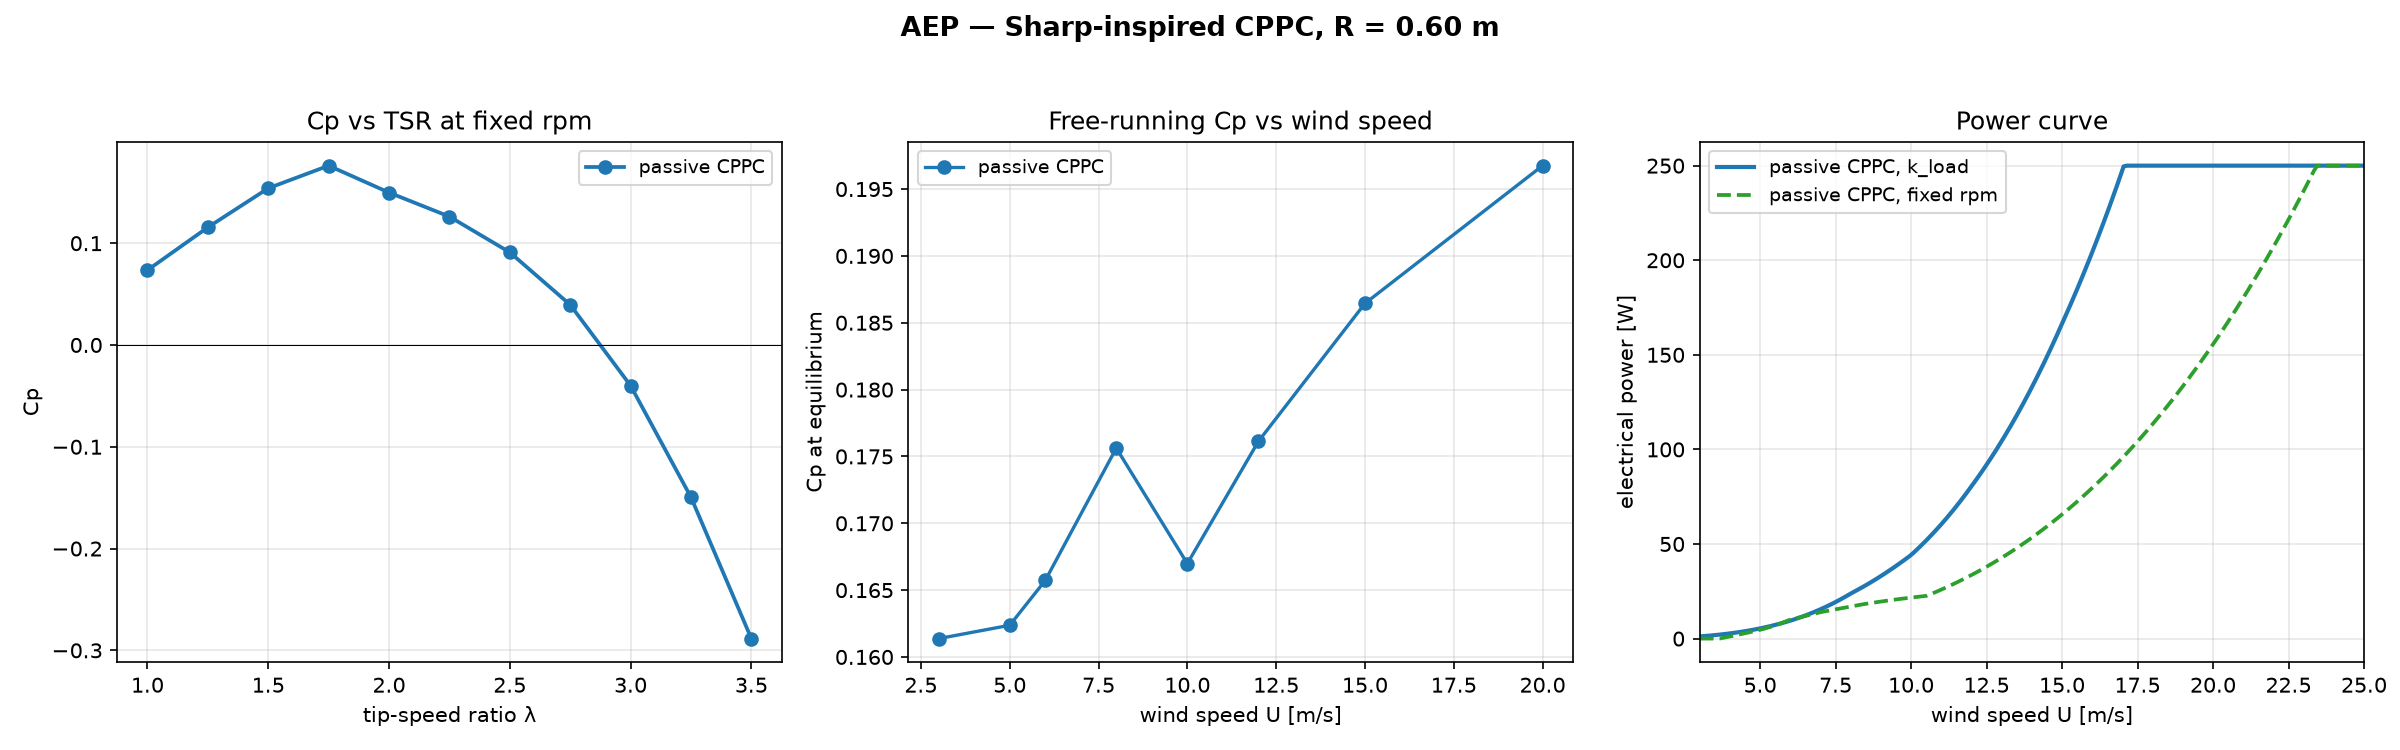
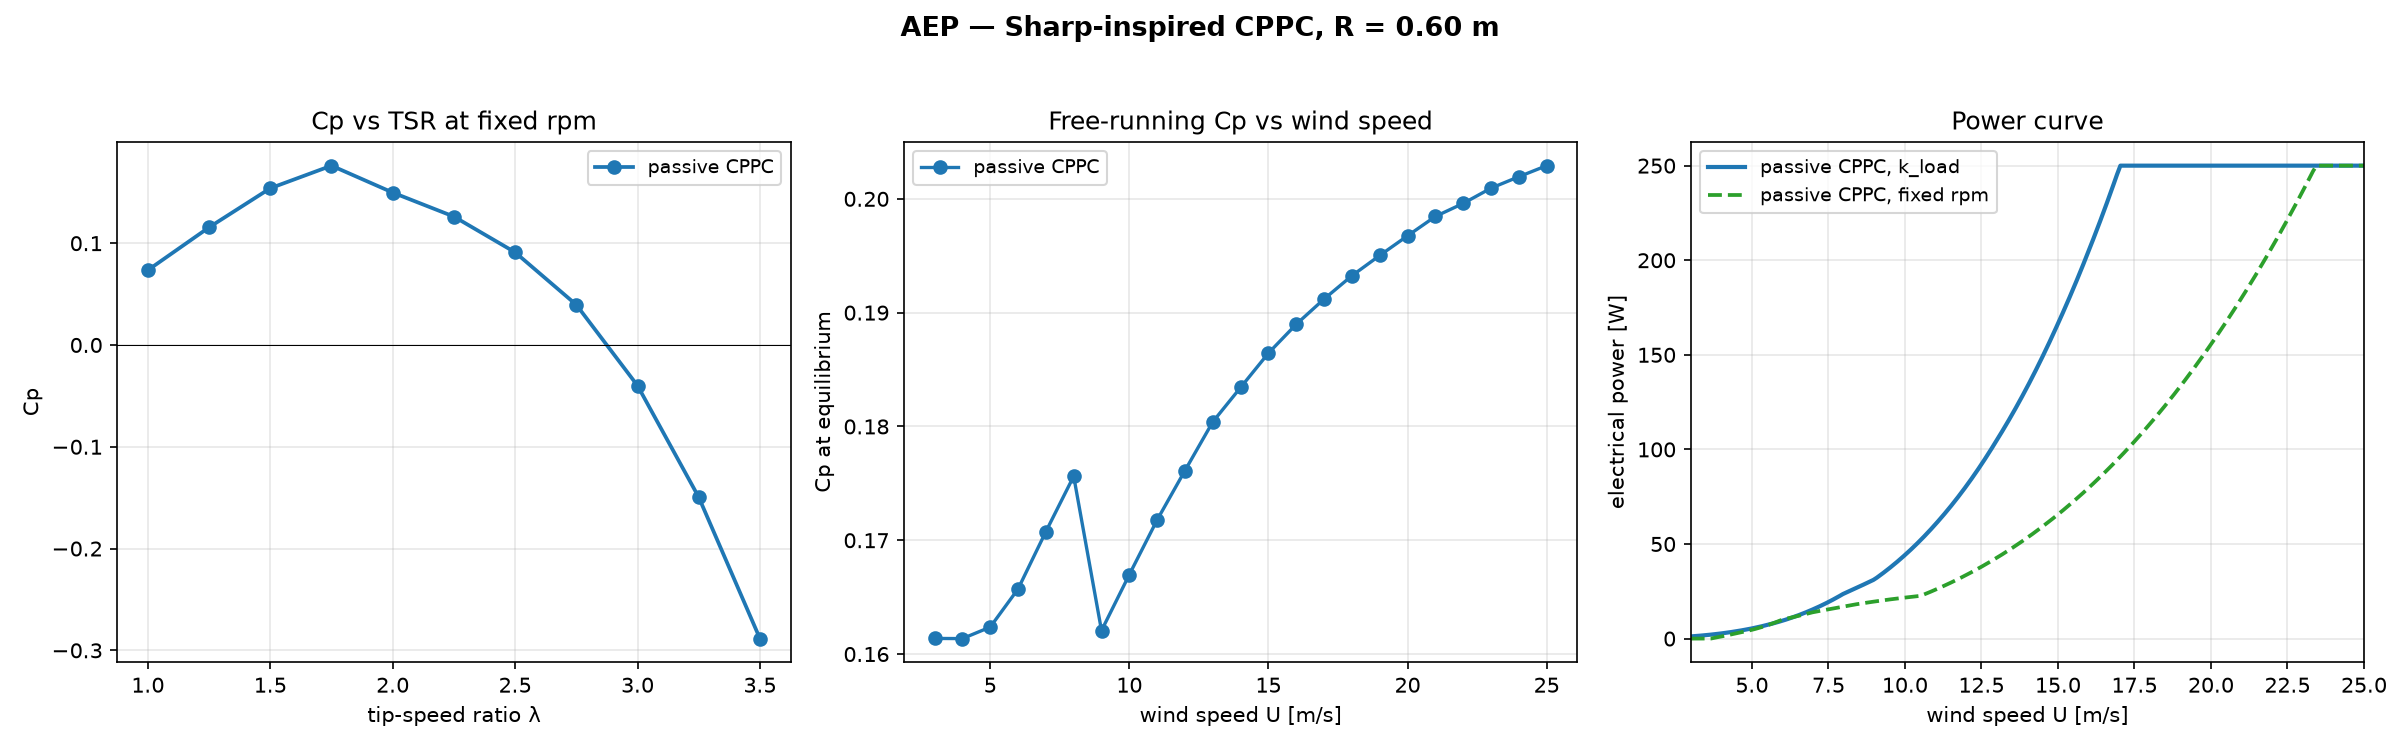
AEP: sample free-running Cp(U) every 1 m/s to resolve the U~8 bifurcation

diff --git a/scripts/compute_aep.py b/scripts/compute_aep.py
@@ -229,8 +229,12 @@ def main():
     cps_passive_tsr = compute_cp_curve(BASE, tsrs, "passive CPPC")
 
     # --- free-running reference speeds ---
+    # Sample every 1 m/s. The free-running equilibrium is bistable near
+    # U ~ 8 m/s (a saddle-node bifurcation between a high-TSR and a low-TSR
+    # branch), so a sparse grid linearly interpolates across the jump and
+    # fabricates a false Cp valley. Dense sampling localises it.
     print()
-    U_ref = [3.0, 5.0, 6.0, 8.0, 10.0, 12.0, 15.0, 20.0]
+    U_ref = np.arange(CUT_IN, CUT_OUT + 1.0, 1.0).tolist()
 
     print("  Free-running passive CPPC:")
     free_passive = []
